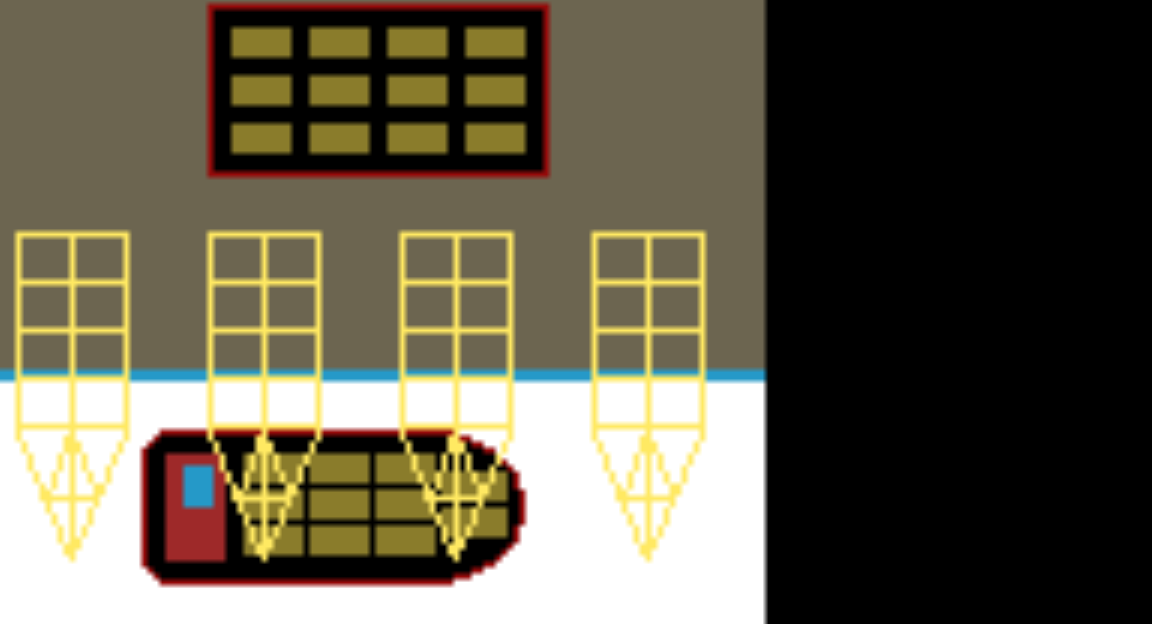
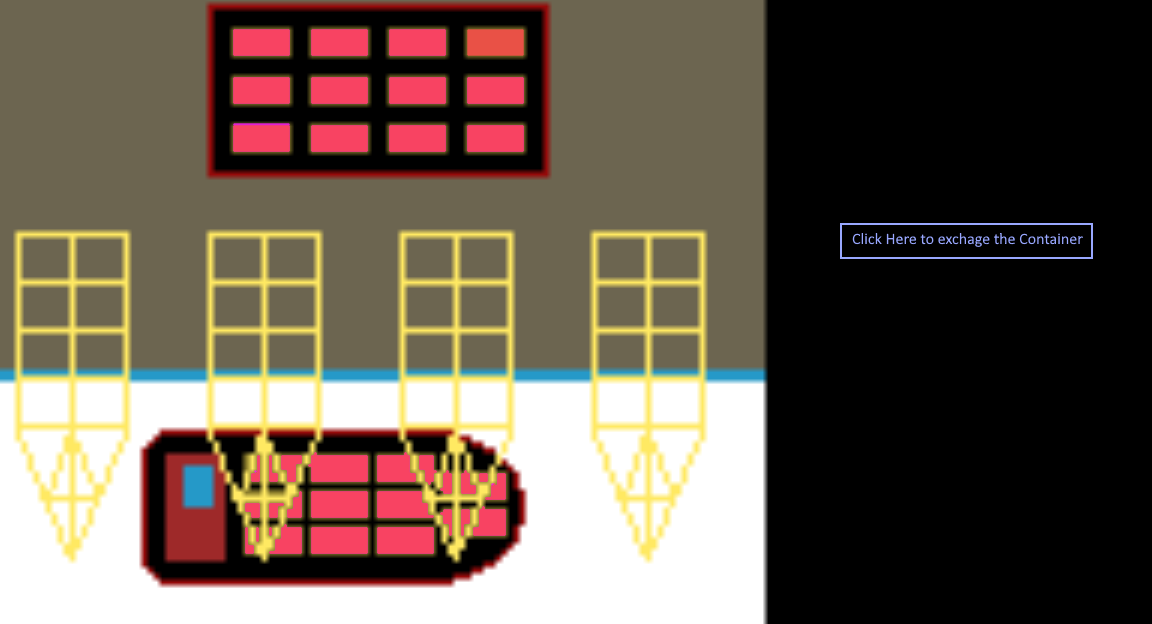
A button

diff --git a/boat.py b/boat.py
@@ -110,8 +110,10 @@ class BoatView(arcade.View):
         if self.current:
             if self.current.type == "BoatTrunk":
                 self.select_boat = self.current
-            else:
+            elif self.current.type == "PortTrunk":
                 self.select_dock = self.current
+            elif self.current.type == "ButtonExchange":
+                pass
         return super().on_mouse_press(x, y, button, modifiers)
 
     @staticmethod
